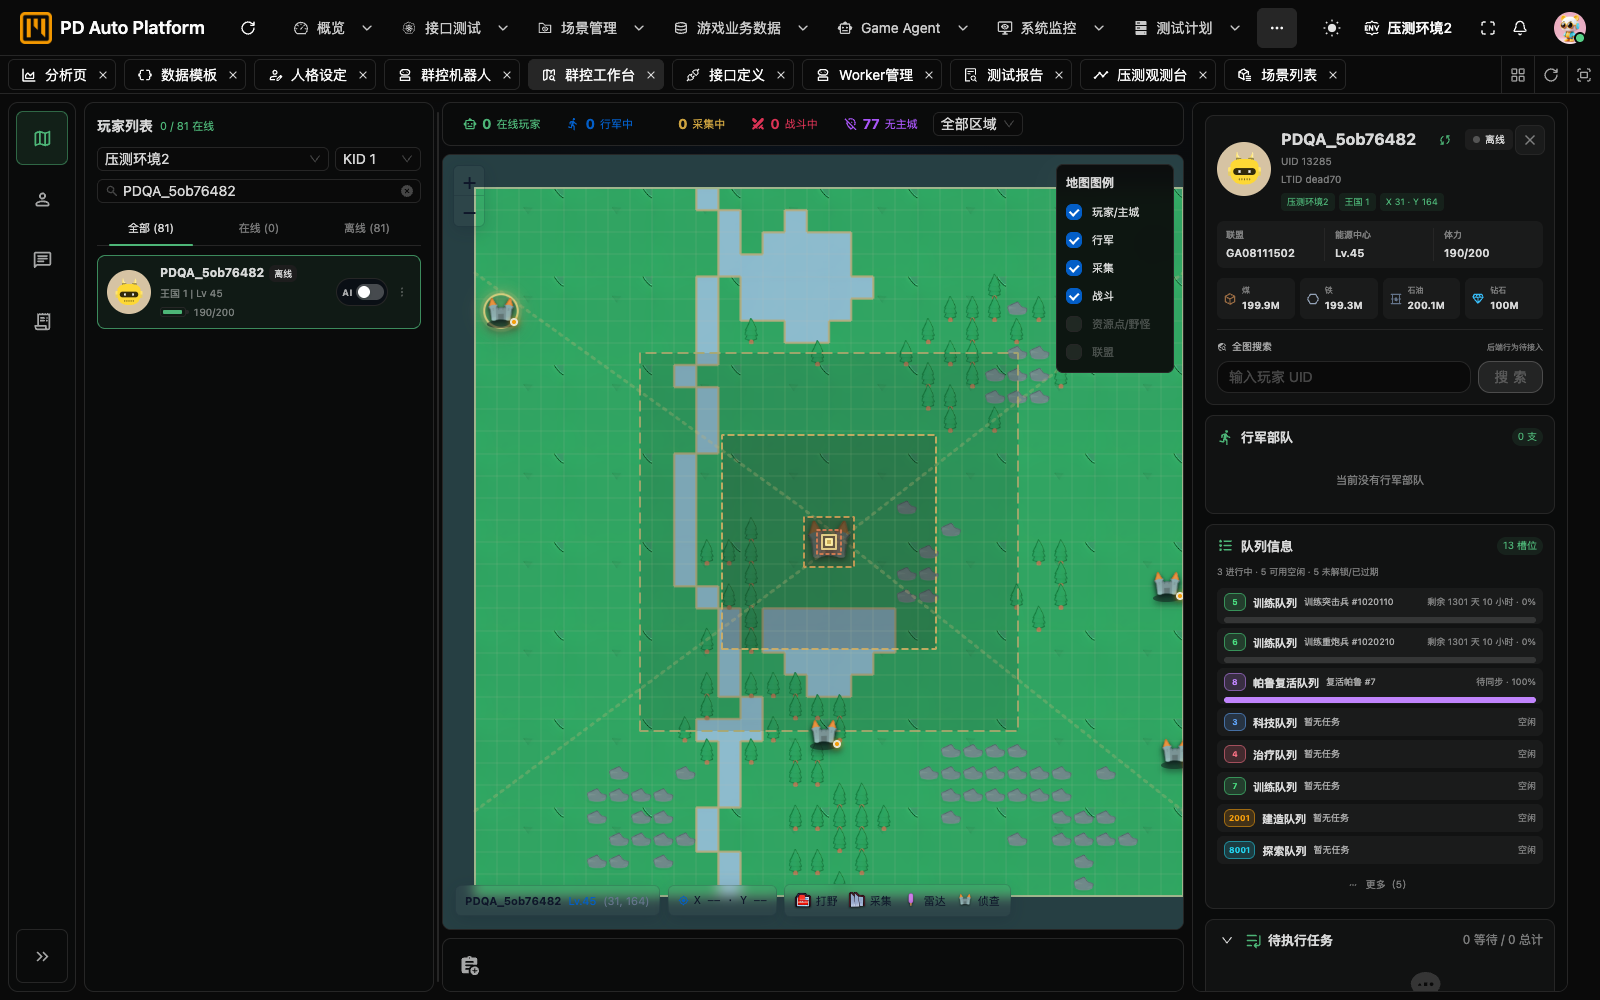
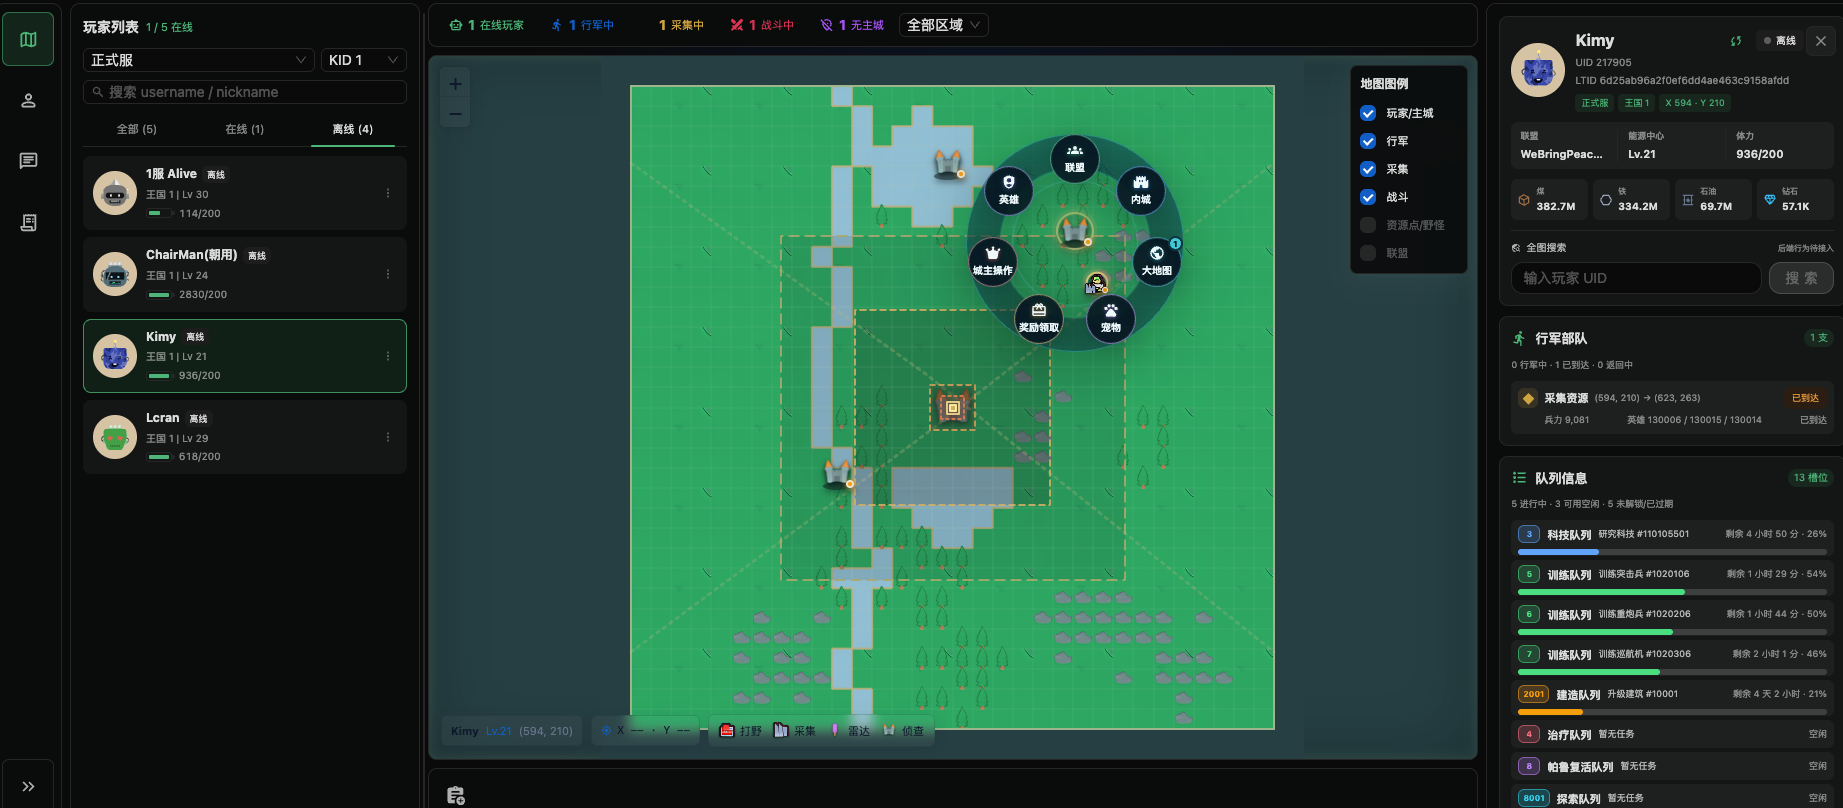
docs: 补充AI执行反馈与玩家地图截图

diff --git a/content.js b/content.js
@@ -1,7 +1,7 @@
-/* 产品说明和媒体清单。仅使用已核实的能力；截图与录屏由本地真实界面采集。 */
+/* 产品说明和媒体清单。仅使用已核实的能力；截图来自本地真实界面采集与用户提供素材，录屏记录实际操作。 */
 window.PD_QA_CONTENT = {
   title: "PD QA",
-  dimensions: {"ai-agent":[1600,1000],"ai-goals":[1600,1000],"environment-config":[1472,1000],"environments":[1600,1000],"factory":[1600,1000],"interfaces":[1600,1000],"overview":[1600,1000],"performance-reports":[1600,1000],"player-chat":[1600,1000],"player-detail":[1600,1000],"player-schedule":[1600,1000],"player-tasks":[742,560],"players":[1600,1000],"pressure":[1600,1000],"scenario-rpa":[1440,906],"scenario-steps":[1440,906],"scenarios":[1440,906],"worker":[1600,1000],"worker-build":[1600,1000],"worker-scale":[1600,1000],"world-map":[1600,1000]},
+  dimensions: {"ai-agent":[1600,1000],"ai-goals":[1600,1000],"environment-config":[1472,1000],"environments":[1600,1000],"factory":[1600,1000],"interfaces":[1600,1000],"overview":[1600,1000],"performance-reports":[1600,1000],"player-chat":[1600,1000],"player-detail":[1843,808],"player-schedule":[1600,1000],"player-tasks":[742,560],"players":[1600,1000],"pressure":[1600,1000],"scenario-rpa":[1440,906],"scenario-steps":[1440,906],"scenarios":[1440,906],"worker":[1600,1000],"worker-build":[1600,1000],"worker-scale":[1600,1000],"world-map":[1600,1000],"ai-execution":[499,501],"world-map-overview":[737,613]},
   chapters: [
     {
       id: "overview", nav: "平台简介", label: "01 / OVERVIEW", title: "把复杂的游戏测试，\n变成可协作的工作台。", layout: "hero",
@@ -77,11 +77,12 @@ window.PD_QA_CONTENT = {
       process: [{ title: "同环境玩家上线", text: "选择同一环境与 KID 的测试玩家，确认在线状态。" }, { title: "选择任务与参数", text: "打开任务下发，选择本次任务并配置参数，提交后进入执行队列。" }, { title: "观察地图与状态", text: "查看部队行军、玩家信息与任务结果，跟踪执行过程。" }],
       media: [
         { image: "players", title: "机器人列表：集中管理玩家账号", caption: "通过列表查看玩家与托管状态，进入账号详情和任务配置。", featured: true },
-        { image: "player-detail", title: "玩家详情：汇集账号与运行信息", caption: "查看单个玩家的基础信息和状态，将账号管理与托管操作连接起来。", featured: true },
+        { image: "player-detail", title: "群控工作台：快捷操作与玩家详情", caption: "围绕地图上的玩家展开环形操作菜单，进入联盟、内城、大地图、英雄等操作。右侧集中呈现基础信息、资源、部队与队列状态。", featured: true },
         { image: "player-tasks", title: "任务下发：选择任务并配置参数", caption: "临时下发面板以雷达任务为例，配置普通任务、精英领主、队伍策略与完成后等待等选项；本次下发不覆盖玩家原有任务组。" },
         { image: "player-schedule", title: "定时策略：按时刻或间隔执行", caption: "选择每日固定时刻或固定间隔，将重复任务安排为持续运行的托管计划。" },
         { image: "player-chat", title: "聊天信息：按环境与 KID 聚合", caption: "聊天视图持续同步消息，便于按测试上下文检查交互；图中展示已保存的历史聊天记录。", featured: true },
-        { image: "world-map", gif: "player-console", title: "真实运行：三名玩家并发打野", caption: "三名测试玩家同时在线并执行单次打野，地图显示三支行军部队，右侧同步更新所选玩家的部队与行军进度。本次三项任务均执行成功，部队已返回。", featured: true }
+        { image: "world-map", gif: "player-console", title: "真实运行：三名玩家并发打野", caption: "三名测试玩家同时在线并执行单次打野，地图显示三支行军部队，右侧同步更新所选玩家的部队与行军进度。本次三项任务均执行成功，部队已返回。", featured: true },
+        { image: "world-map-overview", title: "地图全景：集中查看玩家与部队标记", caption: "在同一张大地图上集中呈现玩家与部队标记，直观看到不同区域的分布与聚集情况，为多玩家运行过程提供全局视图。", featured: true, compact: true }
       ],
       note: "本段动态演示采用单次打野。雷达任务已有配置，但本次领奖接口返回异常，未作为完成闭环的演示。"
     },
@@ -91,6 +92,7 @@ window.PD_QA_CONTENT = {
       intro: "通过 agent_delegate，Agent 可将任务委派给同环境、同联盟内可见且已启用 AI 的空闲玩家，实现多个玩家之间的任务协同。",
       process: [{ title: "理解任务", text: "基于目标与玩家上下文形成操作意图。" }, { title: "调用工具", text: "通过已接入的游戏能力执行操作。" }, { title: "读取反馈", text: "根据执行结果继续多轮交互。" }, { title: "持续协同", text: "保留会话与记忆，基于最新状态继续决策。" }],
       media: [
+        { image: "ai-execution", title: "AI 执行反馈：工具调用与游戏状态", caption: "执行面板呈现工具操作、观测结果与回复。本例反馈已发起两次 Lv.1 野怪集结，并显示目标坐标与后台行军状态。", featured: true, compact: true },
         { image: "ai-agent", title: "人格卡片：配置 Agent 的行为方式", caption: "通过人格卡片组织 Agent 配置，为 AI 托管设定相应的行为指引。", featured: true },
         { image: "ai-goals", title: "目标预设：复用托管任务意图", caption: "维护可复用的目标预设，让 AI 托管围绕选定目标开展后续决策与操作。", featured: true }
       ],

diff --git a/assets/site.css b/assets/site.css
@@ -7,6 +7,9 @@
 @media(max-width:680px){html{scroll-padding-top:85px}.mobile-header{height:61px;position:sticky;top:0;z-index:25;background:rgba(17,19,23,.97);border-bottom:1px solid var(--line);display:flex;align-items:center;justify-content:space-between;padding:0 22px;backdrop-filter:blur(8px)}.mobile-header .wordmark{font-size:24px}.mobile-menu{font-size:12px;display:flex;gap:13px;align-items:center;border:0;padding:8px 0;background:none}.mobile-menu span{font-size:15px;line-height:1}.sidebar{transform:translateX(-105%);width:268px;padding:30px 22px;transition:transform .2s;z-index:50;visibility:hidden}.sidebar.is-open{transform:translateX(0);visibility:visible}.sidebar-backdrop:not([hidden]){display:block;position:fixed;inset:0;z-index:45;border:0;background:#080c12c4;padding:0}.sidebar-brand{padding:0 12px}.sidebar .search-trigger{font-size:12px;padding:10px 11px}.sidebar .search-trigger kbd{display:inline}.nav-link{font-size:13px;padding:12px}.sidebar-bottom{padding-top:28px}.document-top{height:53px;font-size:8px;letter-spacing:.7px}.document-top span:last-child{font-size:9px;letter-spacing:.3px}main{min-width:0;margin-left:0;padding:0 22px}.chapter{min-width:0;padding:47px 0 51px}.hero{padding-top:39px}.eyebrow{font-size:9px;letter-spacing:1.6px;margin-bottom:18px}h1{font-size:clamp(31px,7.8vw,44px);letter-spacing:-1.2px;line-height:1.42}h2{font-size:30px;letter-spacing:-.8px;line-height:1.5}.lead,.hero .lead{font-size:15px;line-height:1.95}.intro{font-size:13px;line-height:1.95}.hero-actions{gap:22px;margin-top:25px;margin-bottom:30px}.primary-link{padding:11px 15px;font-size:12px;gap:16px}.secondary-link{font-size:12px;gap:12px}.highlights{grid-template-columns:1fr;gap:19px;margin:26px 0 30px;padding-top:22px}.highlight{display:grid;grid-template-columns:78px 1fr;gap:18px}.highlight h3{font-size:13px;margin-bottom:0}.highlight p{font-size:12px;max-width:none}.hero .highlights{margin-top:28px}.media-collection{gap:29px;margin-top:27px}.media-frame{padding:6px;border-radius:7px}.media-frame img{border-radius:3px}.image-open::after{opacity:1;width:26px;height:26px;font-size:15px;right:7px;bottom:7px}.media-controls{margin-top:6px;padding:7px 3px 1px}.recording-label{font-size:9px}.animation-button{font-size:11px;gap:7px}figcaption{grid-template-columns:25px 1fr;gap:7px;margin-top:12px}.figure-title{font-size:12px}.figure-caption{font-size:11px}.capability-index{padding:4px 21px;margin:27px 0 31px}.capability-row{padding:20px 0}.capability-row h3{font-size:14px}.capability-row p{font-size:12px}.process{gap:23px;padding-top:20px;padding-bottom:20px;margin:26px 0 28px}.process h3{font-size:13px}.process p{font-size:11px}.process li:before{margin-bottom:6px}.ai .process{padding:20px}.detail-table{margin-top:29px}.detail-table h3{position:sticky;left:0;font-size:17px;margin-bottom:14px}.detail-table th,.detail-table td{font-size:11px;padding:12px 9px}.detail-table th{width:37%;white-space:normal}.closing{font-size:21px;letter-spacing:.5px;margin-top:33px;text-align:left}.document-footer{flex-wrap:wrap;gap:13px;padding:28px 0 34px}.document-footer p{order:3;flex-basis:100%;max-width:none;font-size:10px}.document-footer>a:last-child{margin-left:auto}.search-dialog{padding:20px;max-width:calc(100vw - 24px)}.search-results{max-height:45dvh}.search-dialog input{font-size:14px;margin-top:20px}.dialog-bottom{font-size:9px}.lightbox{width:calc(100vw - 20px);max-width:calc(100vw - 20px);max-height:calc(100dvh - 24px);padding:15px}.lightbox-top h2{font-size:16px}.lightbox-stage{max-height:calc(100dvh - 245px)}.lightbox-caption{font-size:11px}.lightbox-actions{gap:15px}.text-button{font-size:11px}.lightbox-actions>span:last-child{display:none}}
 @media(prefers-reduced-motion:reduce){html{scroll-behavior:auto}*,*:before,*:after{animation:none!important;transition:none!important}}
 
+/* Keep cropped user screenshots near their original size while fitting mobile screens. */
+.media-figure.compact{width:100%;max-width:var(--media-max-width);justify-self:center}
+
 /* Rich step tables retain their columns on narrow screens without widening the page. */
 .table-scroll{width:100%;max-width:100%;overflow-x:auto;overscroll-behavior-x:contain;scrollbar-width:thin;scrollbar-color:var(--line-strong) var(--surface)}
 .detail-table:has(.table-scroll){overflow:visible}

diff --git a/assets/site.js b/assets/site.js
@@ -21,7 +21,7 @@
       const [width, height] = data.dimensions?.[item.image] || [1600, 1000];
       mediaItems.push(media);
       figureNumber += 1;
-      return `<figure class="media-figure${item.featured ? ' featured' : ''}" data-media="${index}">
+      return `<figure class="media-figure${item.featured ? ' featured' : ''}${item.compact ? ' compact' : ''}"${item.compact ? ` style="--media-max-width:${width + 22}px"` : ''} data-media="${index}">
         <div class="media-frame"><button class="image-open" type="button" data-open-image="${index}" aria-label="放大查看：${escape(item.title)}"><img src="${escape(media.src)}" width="${width}" height="${height}" alt="${escape(item.alt || item.title)}" loading="${figureNumber === 1 ? 'eager' : 'lazy'}" decoding="async" data-media-image="${index}"></button>
         ${media.animation ? `<div class="media-controls"><button class="animation-button" type="button" data-animation="${index}" aria-pressed="false"><span class="play-symbol" aria-hidden="true">▶</span><span class="animation-label">播放演示</span></button><span class="recording-label">界面操作录屏 · GIF</span></div>` : ''}</div>
         <figcaption><span class="figure-number">${String(figureNumber).padStart(2, '0')}</span><div><p class="figure-title">${escape(item.title)}</p><p class="figure-caption">${escape(item.caption)}</p></div></figcaption>

diff --git a/README.md b/README.md
@@ -58,7 +58,7 @@ npm run build          # 严格检查通过后复制到 dist/
 
 ## 内容与素材原则
 
-- 所有界面素材从当前平台采集；录屏只记录真实操作，不制作产品界面替身。
+- 界面素材来自当前平台采集与用户提供的截图；录屏只记录真实操作，不制作产品界面替身。
 - 场景示例展示 Script、Role、Request、Loop、If、Action、Wait 七类已适配步骤，可选用 Scenario 引用或复制已有场景。If 仅在条件成立时执行子步骤。RPA 指点击添加步骤后，在树形流程中调整顺序与嵌套关系；本次示例为未保存、未执行的编辑草稿。
 - 编辑器虽有 Notify「消息」入口，但当前 PD 执行适配尚未支持，不将它计入本例可执行组合。OnlyOnce 也未作为已适配能力展示。
 - PD 当前使用 TCP / Sproto，环境关联服务器、变量与配置分支，不承诺未实现的通用协议切换。
@@ -70,22 +70,23 @@ npm run build          # 严格检查通过后复制到 dist/
 
 ## 本版媒体展示范围
 
-本版于 2026-10-03 采集，21 张截图和 3 份录屏均使用真实深色界面，不使用图片反色滤镜。图注与实际内容对应：
+本版于 2026-10-03 更新，包含 23 张深色截图和 3 份录屏。其中三张由用户提供原图，其实际截图日期未知；其余来自此前本地平台采集，不使用图片反色滤镜。图注与实际内容对应：
 
 - 接口截图展示 `Bag_UseItems` 协议结构抽屉，没有展示请求发送结果。
 - 环境素材分别展示环境切换下拉和服务器、变量、`config_version` 分支配置。
 - 场景素材展示七类步骤的地图巡检草稿，以及条件配置和真实拖拽操作。Action 使用 `random_aoi_roam`，表示 AOI 视角巡游，不表示派遣部队；截图与录屏不作为场景执行完成的证据。
 - 玩家素材覆盖机器人列表、基础信息、单项雷达任务下发配置、每日固定时刻 / 固定间隔定时策略，以及历史聊天。雷达面板展示普通任务、精英领主、队伍策略和等待选项，不表示六类任务同时执行。
-- 地图录屏展示三名测试玩家同时在线、并发执行单次打野，三支部队的行军状态与玩家详情同步更新。三项任务均成功，部队已返回。采集后已核验三名演示玩家全部恢复离线，在线数为 0、无活动运行、无外派部队；玩家详情截图展示恢复后的基础信息。
+- 地图录屏展示三名测试玩家同时在线、并发执行单次打野，三支部队的行军状态与玩家详情同步更新。三项任务均成功，部队已返回。采集后已核验三名演示玩家全部恢复离线，在线数为 0、无活动运行、无外派部队；原本地录制的恢复结果仅对应这三名演示玩家。
 - 雷达尝试中，两个运行没有可执行情报，另一个完成派遣但在 `Radar_GetIntelRewardOneClick` 领奖时返回参数异常 `code=2`，对应任务项失败。不能把该批次的表面 `SUCCESS` 当作雷达完成闭环；因此动态演示采用已验证成功的单次打野，没有将其标为雷达或 AI 托管实录。
-- AI 素材展示人格卡片与目标预设配置，没有实际运行对话或工具调用实录。正文能力说明与配置界面展示分开表述。
+- 用户提供的地图全景补充玩家与部队标记分布，不据此推算并发规模；工作台截图展示环形操作菜单和详情，画面为 1/5 在线且选中玩家离线。三张用户原图直接归档使用。
+- AI 素材包含人格卡片、目标预设，以及用户补充的工具操作、观测结果与回复截图；该图反馈已发起两次 Lv.1 野怪集结，不据此推断战斗已完成或多 Agent 协同已实际发生。
 - Worker 素材覆盖节点列表、已发布版本选择器和新增实例配置。录屏仅演示版本列表与更新记录切换，没有执行构建、更新或扩缩容操作。构建发布由 Jenkins 完成，平台负责选择发布版本批次更新及手动增减实例。
 - 历史报告列表展示真实运行记录；压测观测截图当前没有可展示的历史指标，只说明已实现的观测界面与操作布局，不作为有效负载或性能结果的证据。后续加入实测报告时，应同步更新图注和本节说明。
 
-本次没有保存场景草稿、覆盖玩家原任务组、修改定时策略、启用 AI 托管、发起性能压测，或执行 Worker 构建、更新、扩缩容。玩家上线与临时任务下发是为了真实录制而执行的限定操作；离线恢复完成不表示已经回滚期间产生的游戏资源变化。
+此前本地录制没有保存场景草稿、覆盖玩家原任务组、修改定时策略、启用 AI 托管、发起性能压测，或执行 Worker 构建、更新、扩缩容。玩家上线与临时任务下发是为了真实录制而执行的限定操作；离线恢复完成不表示已经回滚期间产生的游戏资源变化。
 
 ## 素材清单
 
-配置的素材以 `content.js` 为准。默认截图名：`overview`、`interfaces`、`factory`、`scenarios`、`scenario-rpa`、`scenario-steps`、`environments`、`environment-config`、`players`、`player-detail`、`player-tasks`、`player-schedule`、`player-chat`、`world-map`、`ai-agent`、`ai-goals`、`performance-reports`、`pressure`、`worker`、`worker-build`、`worker-scale`；默认录屏名：`scenario-flow`、`player-console`、`worker-flow`。
+配置的素材以 `content.js` 为准。默认截图名：`overview`、`interfaces`、`factory`、`scenarios`、`scenario-rpa`、`scenario-steps`、`environments`、`environment-config`、`players`、`player-detail`、`player-tasks`、`player-schedule`、`player-chat`、`world-map`、`world-map-overview`、`ai-execution`、`ai-agent`、`ai-goals`、`performance-reports`、`pressure`、`worker`、`worker-build`、`worker-scale`；默认录屏名：`scenario-flow`、`player-console`、`worker-flow`。
 
 截图缺失时页面会显示明确提示，严格检查会失败；因此未采集齐素材不应作为完成版分享。
